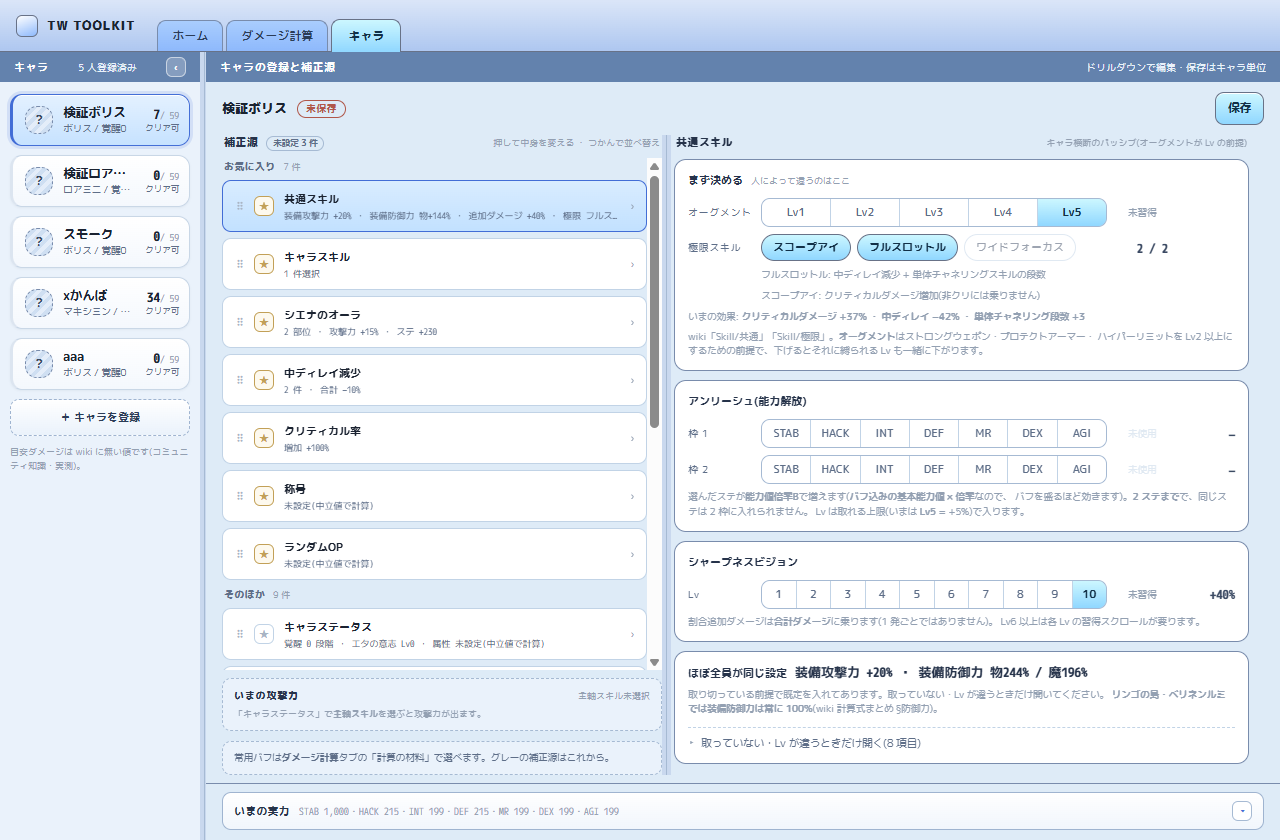
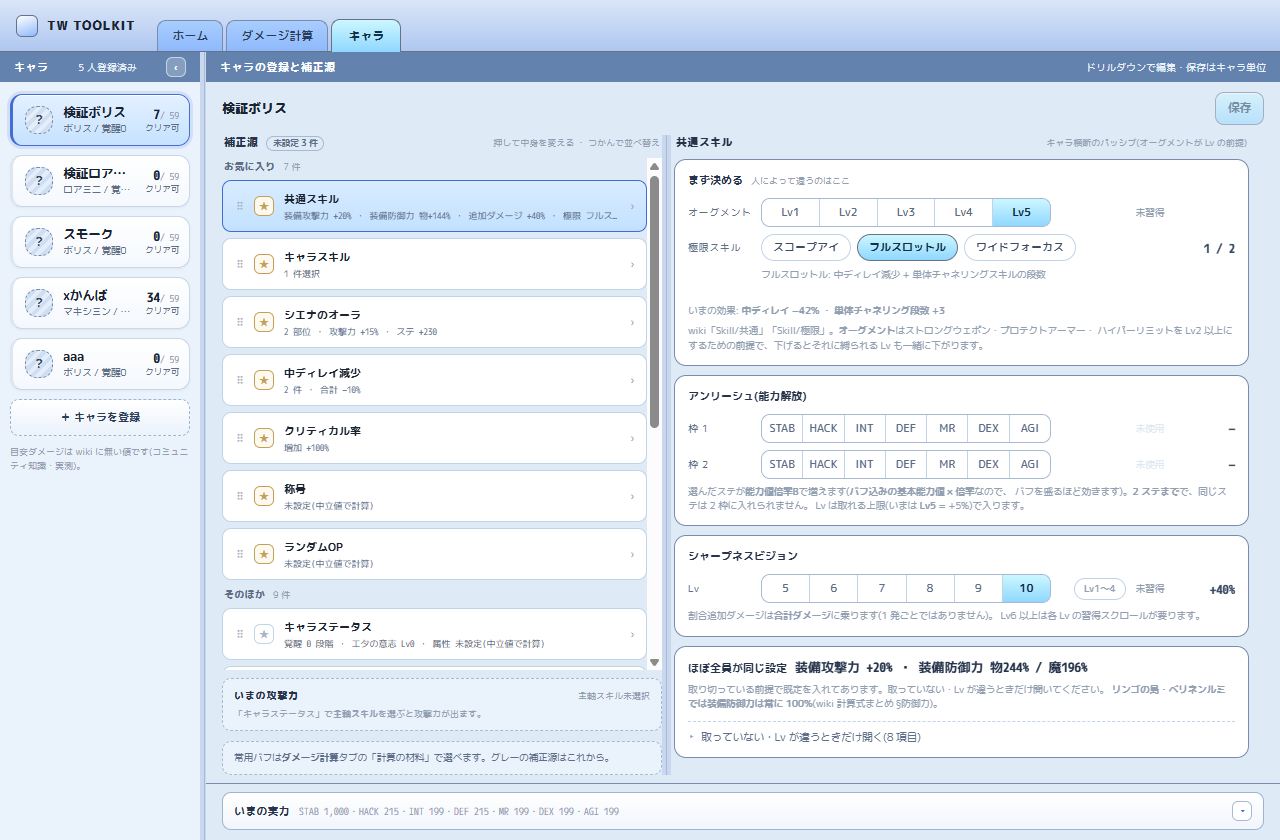
fix(ui): SV は 5〜10 だけ出し、Lv1〜4 は出したいときだけ
Lv5 はほぼ全員が通る地点(そこで止まる)なので、ふだんの選択は 5 以上。
1〜4 は「Lv1〜4」で開く(覚醒段階の「それ以外」と同じ形)。既に 1〜4 のキャラは最初から出す。

ついでに欄の列をそろえた(ラベル / 段 / 操作 / 効いている値)。極限の 3 チップは
段 1 つぶんに収まらないので操作の列まで使う。

Claude-Session: https://claude.ai/code/session_01JvRWxU3ohwNNHW2hQatCCP

diff --git a/apps/desktop/src/pages/chars/SourcePane.svelte b/apps/desktop/src/pages/chars/SourcePane.svelte
@@ -424,11 +424,20 @@
     return lv === 0 ? "未習得" : `物 +${lv * 9}% / 魔 +${lv * 6}%`;
   });
   const SHARPNESS_RATES = [5, 10, 15, 20, 25, 28, 31, 34, 37, 40];
-  // 段の名前は Lv だけ、効いている値は行の右に出す(段に「Lv6(+28%)」と書くと折り返す)
+  // 段の名前は Lv だけ、効いている値は行の右に出す(段に「Lv6(+28%)」と書くと折り返す)。
+  // **Lv5 まではほぼ全員が同じ**(そこで止まる)なので、ふだんは 5〜10 だけ出す
   const sharpnessVisionOptions = Array.from({ length: 10 }, (_, i) => ({
     value: String(i + 1),
     label: String(i + 1),
   }));
+  const sharpnessMainOptions = sharpnessVisionOptions.slice(4);
+  let sharpnessAllOpen = $state(false);
+  const sharpnessIsLow = $derived(
+    draft.commonSkills.sharpness_vision_level > 0 && draft.commonSkills.sharpness_vision_level < 5,
+  );
+  const sharpnessOptionsNow = $derived(
+    sharpnessAllOpen || sharpnessIsLow ? sharpnessVisionOptions : sharpnessMainOptions,
+  );
   const sharpnessVisionNote = $derived.by(() => {
     const lv = draft.commonSkills.sharpness_vision_level;
     return lv === 0 ? "未習得" : `割合追加ダメージ +${SHARPNESS_RATES[lv - 1]}%`;
@@ -1544,12 +1553,15 @@
               (v) => setAugmentLevel(Number(v))
             }
           />
-          <button
-            type="button"
-            class="clear"
-            disabled={draft.commonSkills.augment_level === 0}
-            onclick={() => setAugmentLevel(0)}
-          >未習得</button>
+          <span class="skill-actions">
+            <button
+              type="button"
+              class="clear"
+              disabled={draft.commonSkills.augment_level === 0}
+              onclick={() => setAugmentLevel(0)}
+            >未習得</button>
+          </span>
+          <span></span>
         </div>
         <div class="skill-field">
           <span class="k">極限スキル</span>
@@ -1601,12 +1613,14 @@
               disabledValues={unleashDisabled(i)}
               bind:value={() => slot.stat ?? "", (v) => setUnleashStat(i, v)}
             />
-            <button
-              type="button"
-              class="clear"
-              disabled={slot.stat === null}
-              onclick={() => setUnleashStat(i, "")}
-            >未使用</button>
+            <span class="skill-actions">
+              <button
+                type="button"
+                class="clear"
+                disabled={slot.stat === null}
+                onclick={() => setUnleashStat(i, "")}
+              >未使用</button>
+            </span>
             <span class="v num" use:flash={() => (slot.stat === null ? "-" : `${UNLEASH_RATES[slot.level - 1]}`)}>
               {slot.stat === null ? "—" : `+${UNLEASH_RATES[slot.level - 1]}%`}
             </span>
@@ -1627,19 +1641,29 @@
           <span class="k">Lv</span>
           <StepSelect
             label=""
-            options={sharpnessVisionOptions}
-            cols={sharpnessVisionOptions.length}
+            options={sharpnessOptionsNow}
+            cols={sharpnessOptionsNow.length}
             bind:value={
               () => String(draft.commonSkills.sharpness_vision_level),
               (v) => (draft.commonSkills.sharpness_vision_level = Number(v))
             }
           />
-          <button
-            type="button"
-            class="clear"
-            disabled={draft.commonSkills.sharpness_vision_level === 0}
-            onclick={() => (draft.commonSkills.sharpness_vision_level = 0)}
-          >未習得</button>
+          <span class="skill-actions">
+            {#if !sharpnessIsLow}
+              <button
+                type="button"
+                class="chip quiet"
+                class:on={sharpnessAllOpen}
+                onclick={() => (sharpnessAllOpen = !sharpnessAllOpen)}
+              >{sharpnessAllOpen ? "5 以上" : "Lv1〜4"}</button>
+            {/if}
+            <button
+              type="button"
+              class="clear"
+              disabled={draft.commonSkills.sharpness_vision_level === 0}
+              onclick={() => (draft.commonSkills.sharpness_vision_level = 0)}
+            >未習得</button>
+          </span>
           <span
             class="v num"
             use:bump={() => (draft.commonSkills.sharpness_vision_level === 0
@@ -2241,7 +2265,10 @@
   .stage-row :global(.seg button) { min-width: 46px; padding: 7px 0; font-size: 13px; }
   /* 共通スキルの欄。ラベル・段・外す・効いている値を 1 行に、列をそろえて並べる */
   .skill-fields { margin-top: 9px; display: flex; flex-direction: column; gap: 7px; }
-  .skill-field { display: grid; grid-template-columns: 64px minmax(0, 1fr) 52px 58px; gap: 9px; align-items: center; }
+  /* 列: ラベル / 段 / 操作(見え方のスイッチ・外す) / 効いている値。
+     操作が無い行でも列は残すので、どの行も同じ位置で並ぶ */
+  .skill-field { display: grid; grid-template-columns: 64px minmax(0, 1fr) 108px 58px; gap: 9px; align-items: center; }
+  .skill-actions { display: flex; align-items: center; justify-content: flex-end; gap: 6px; }
   .skill-field .k { font-size: 10px; letter-spacing: 0.06em; color: var(--fg-muted); }
   .skill-field .v { text-align: right; font-size: 12.5px; font-weight: 700; color: var(--fg-sub); }
   /* ほぼ押さない操作。段に 1 列渡さず、言葉のまま小さく置く(記号にしない) */
@@ -2252,7 +2279,8 @@
   .skill-field .clear:hover:not(:disabled) { background: var(--state-short-bg); color: var(--danger); }
   .skill-field .clear:disabled { color: var(--border-soft); }
   .skill-note { margin: 0 0 0 73px; }
-  .ultimate-row { display: flex; flex-wrap: wrap; gap: 6px; }
+  /* 3 つのチップは段 1 つぶんの幅に収まらないので、操作の列まで使う */
+  .ultimate-row { grid-column: 2 / 4; display: flex; flex-wrap: wrap; gap: 6px; }
   /* 2 件ぶんの高さを先に取る。選んだ数で下が上下しない */
   .ultimate-notes { min-height: 30px; }
   .ultimate-notes .skill-note { min-height: 15px; }
